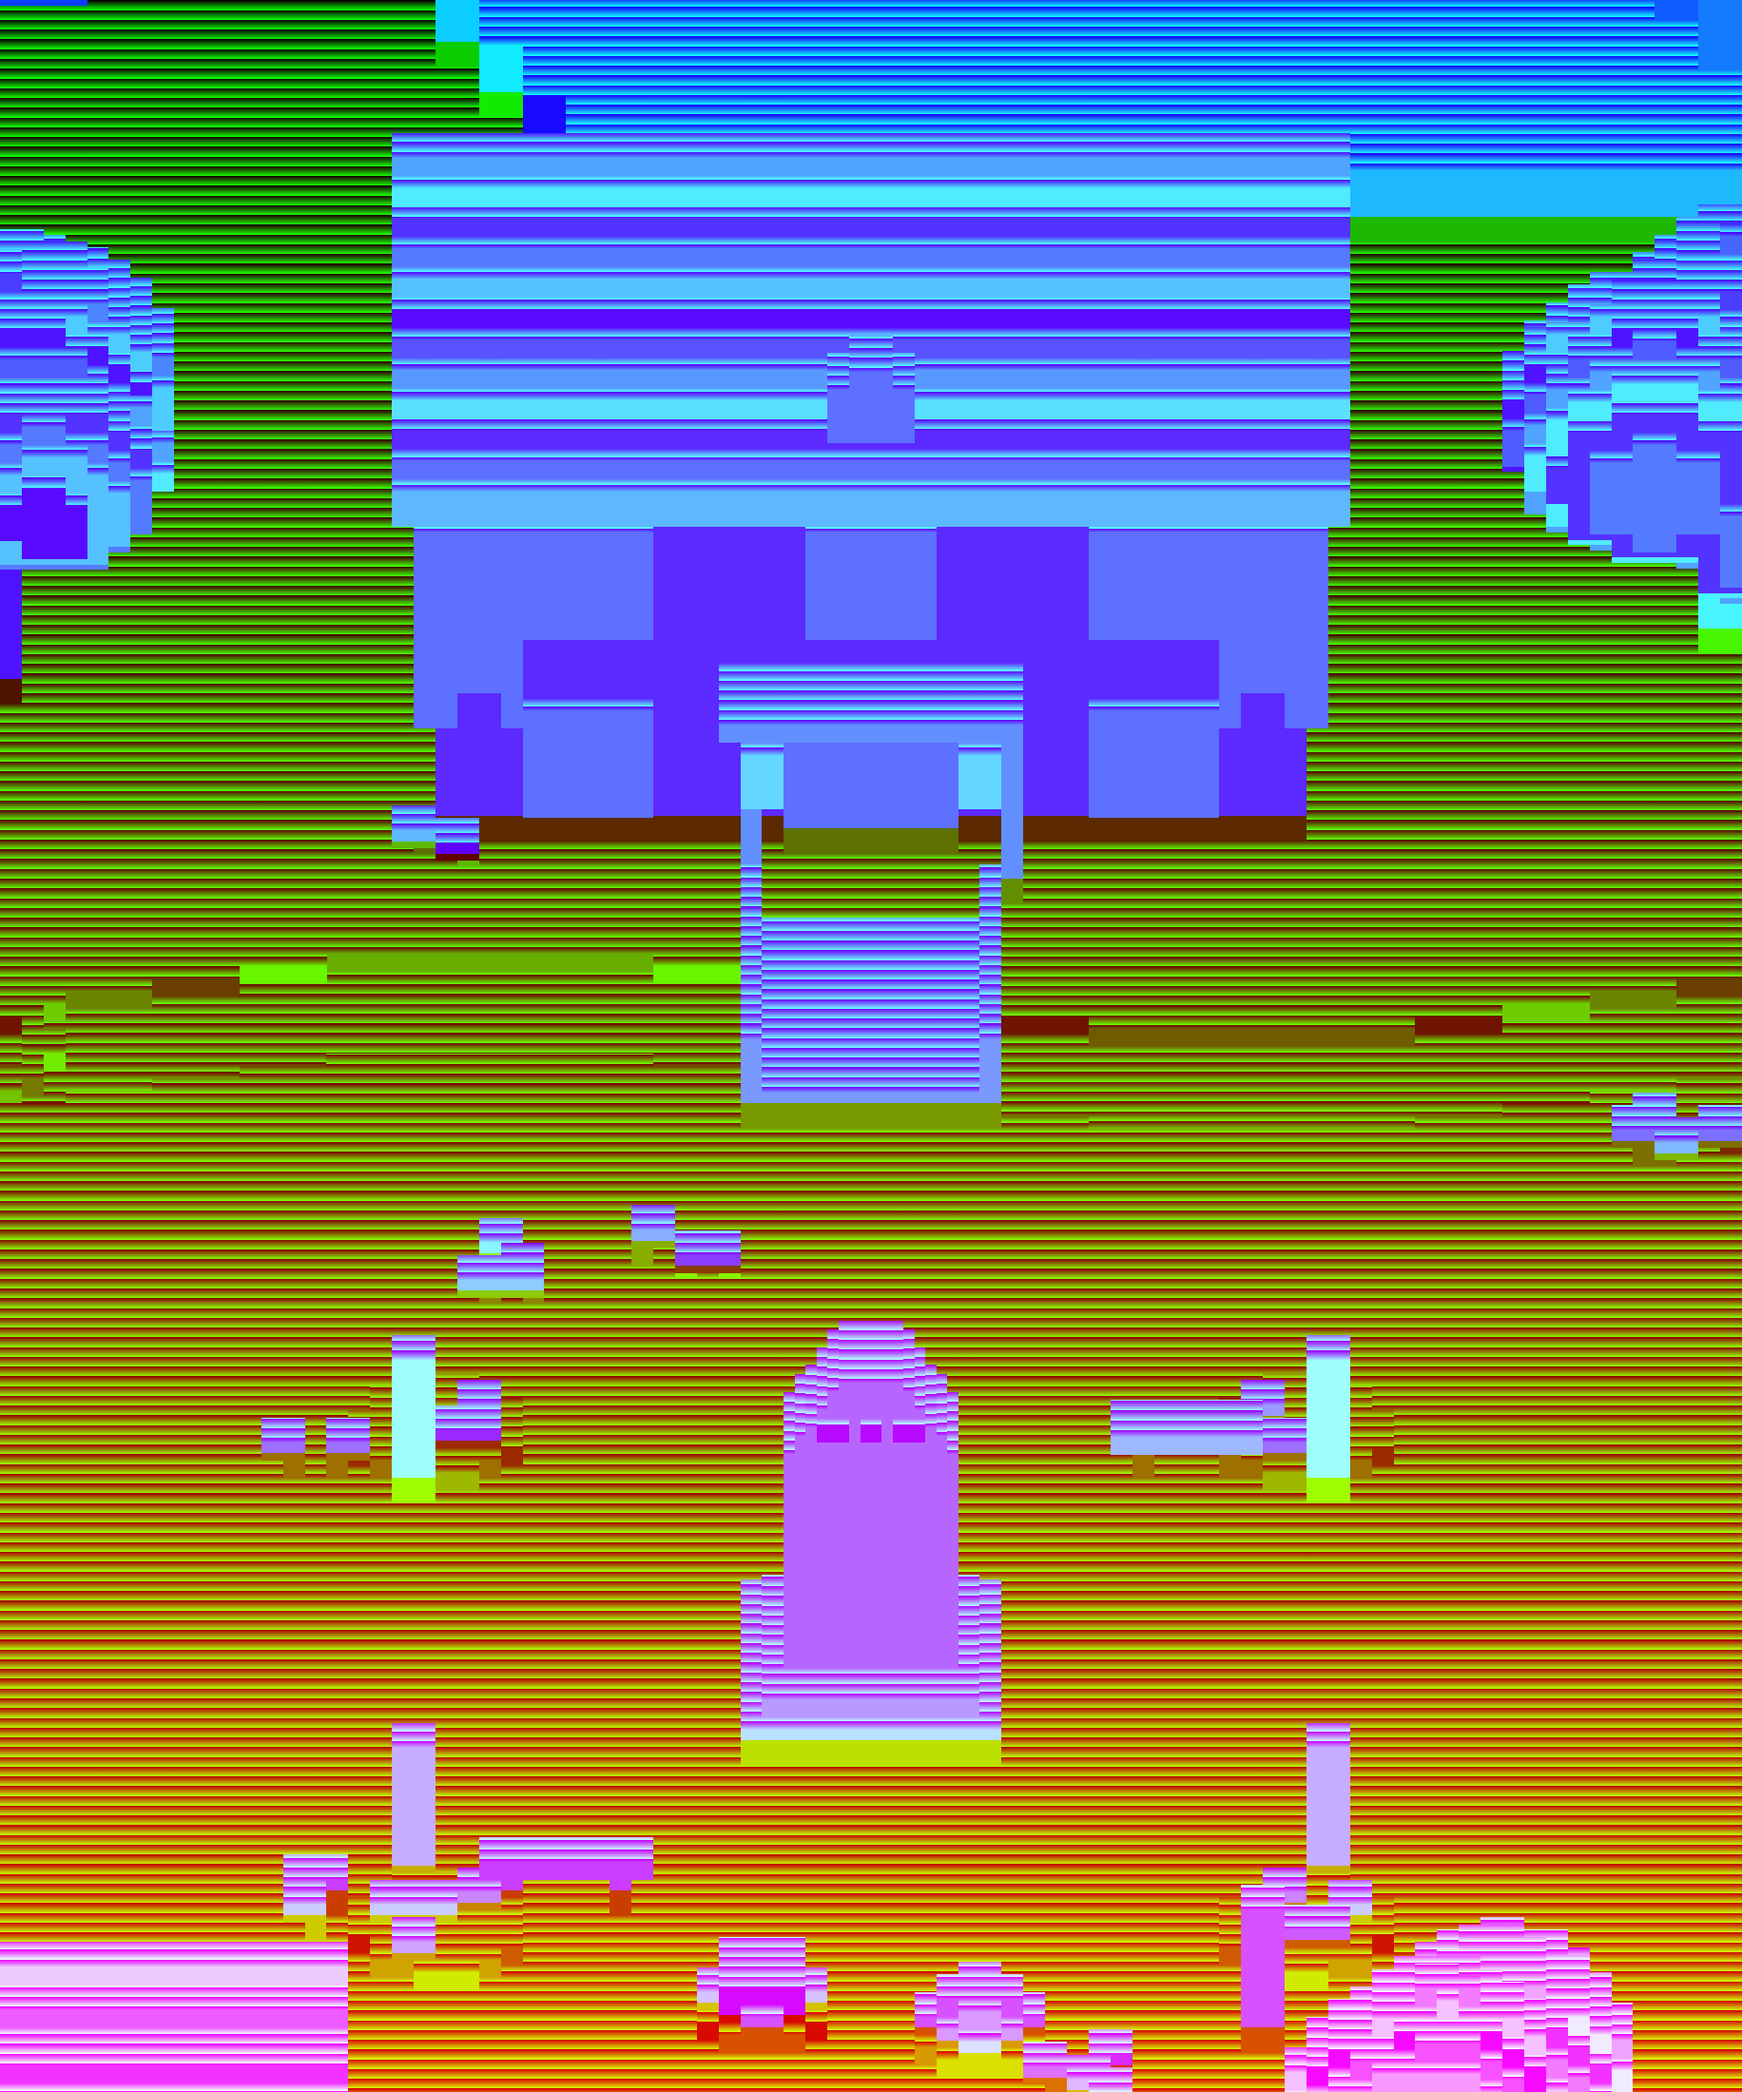
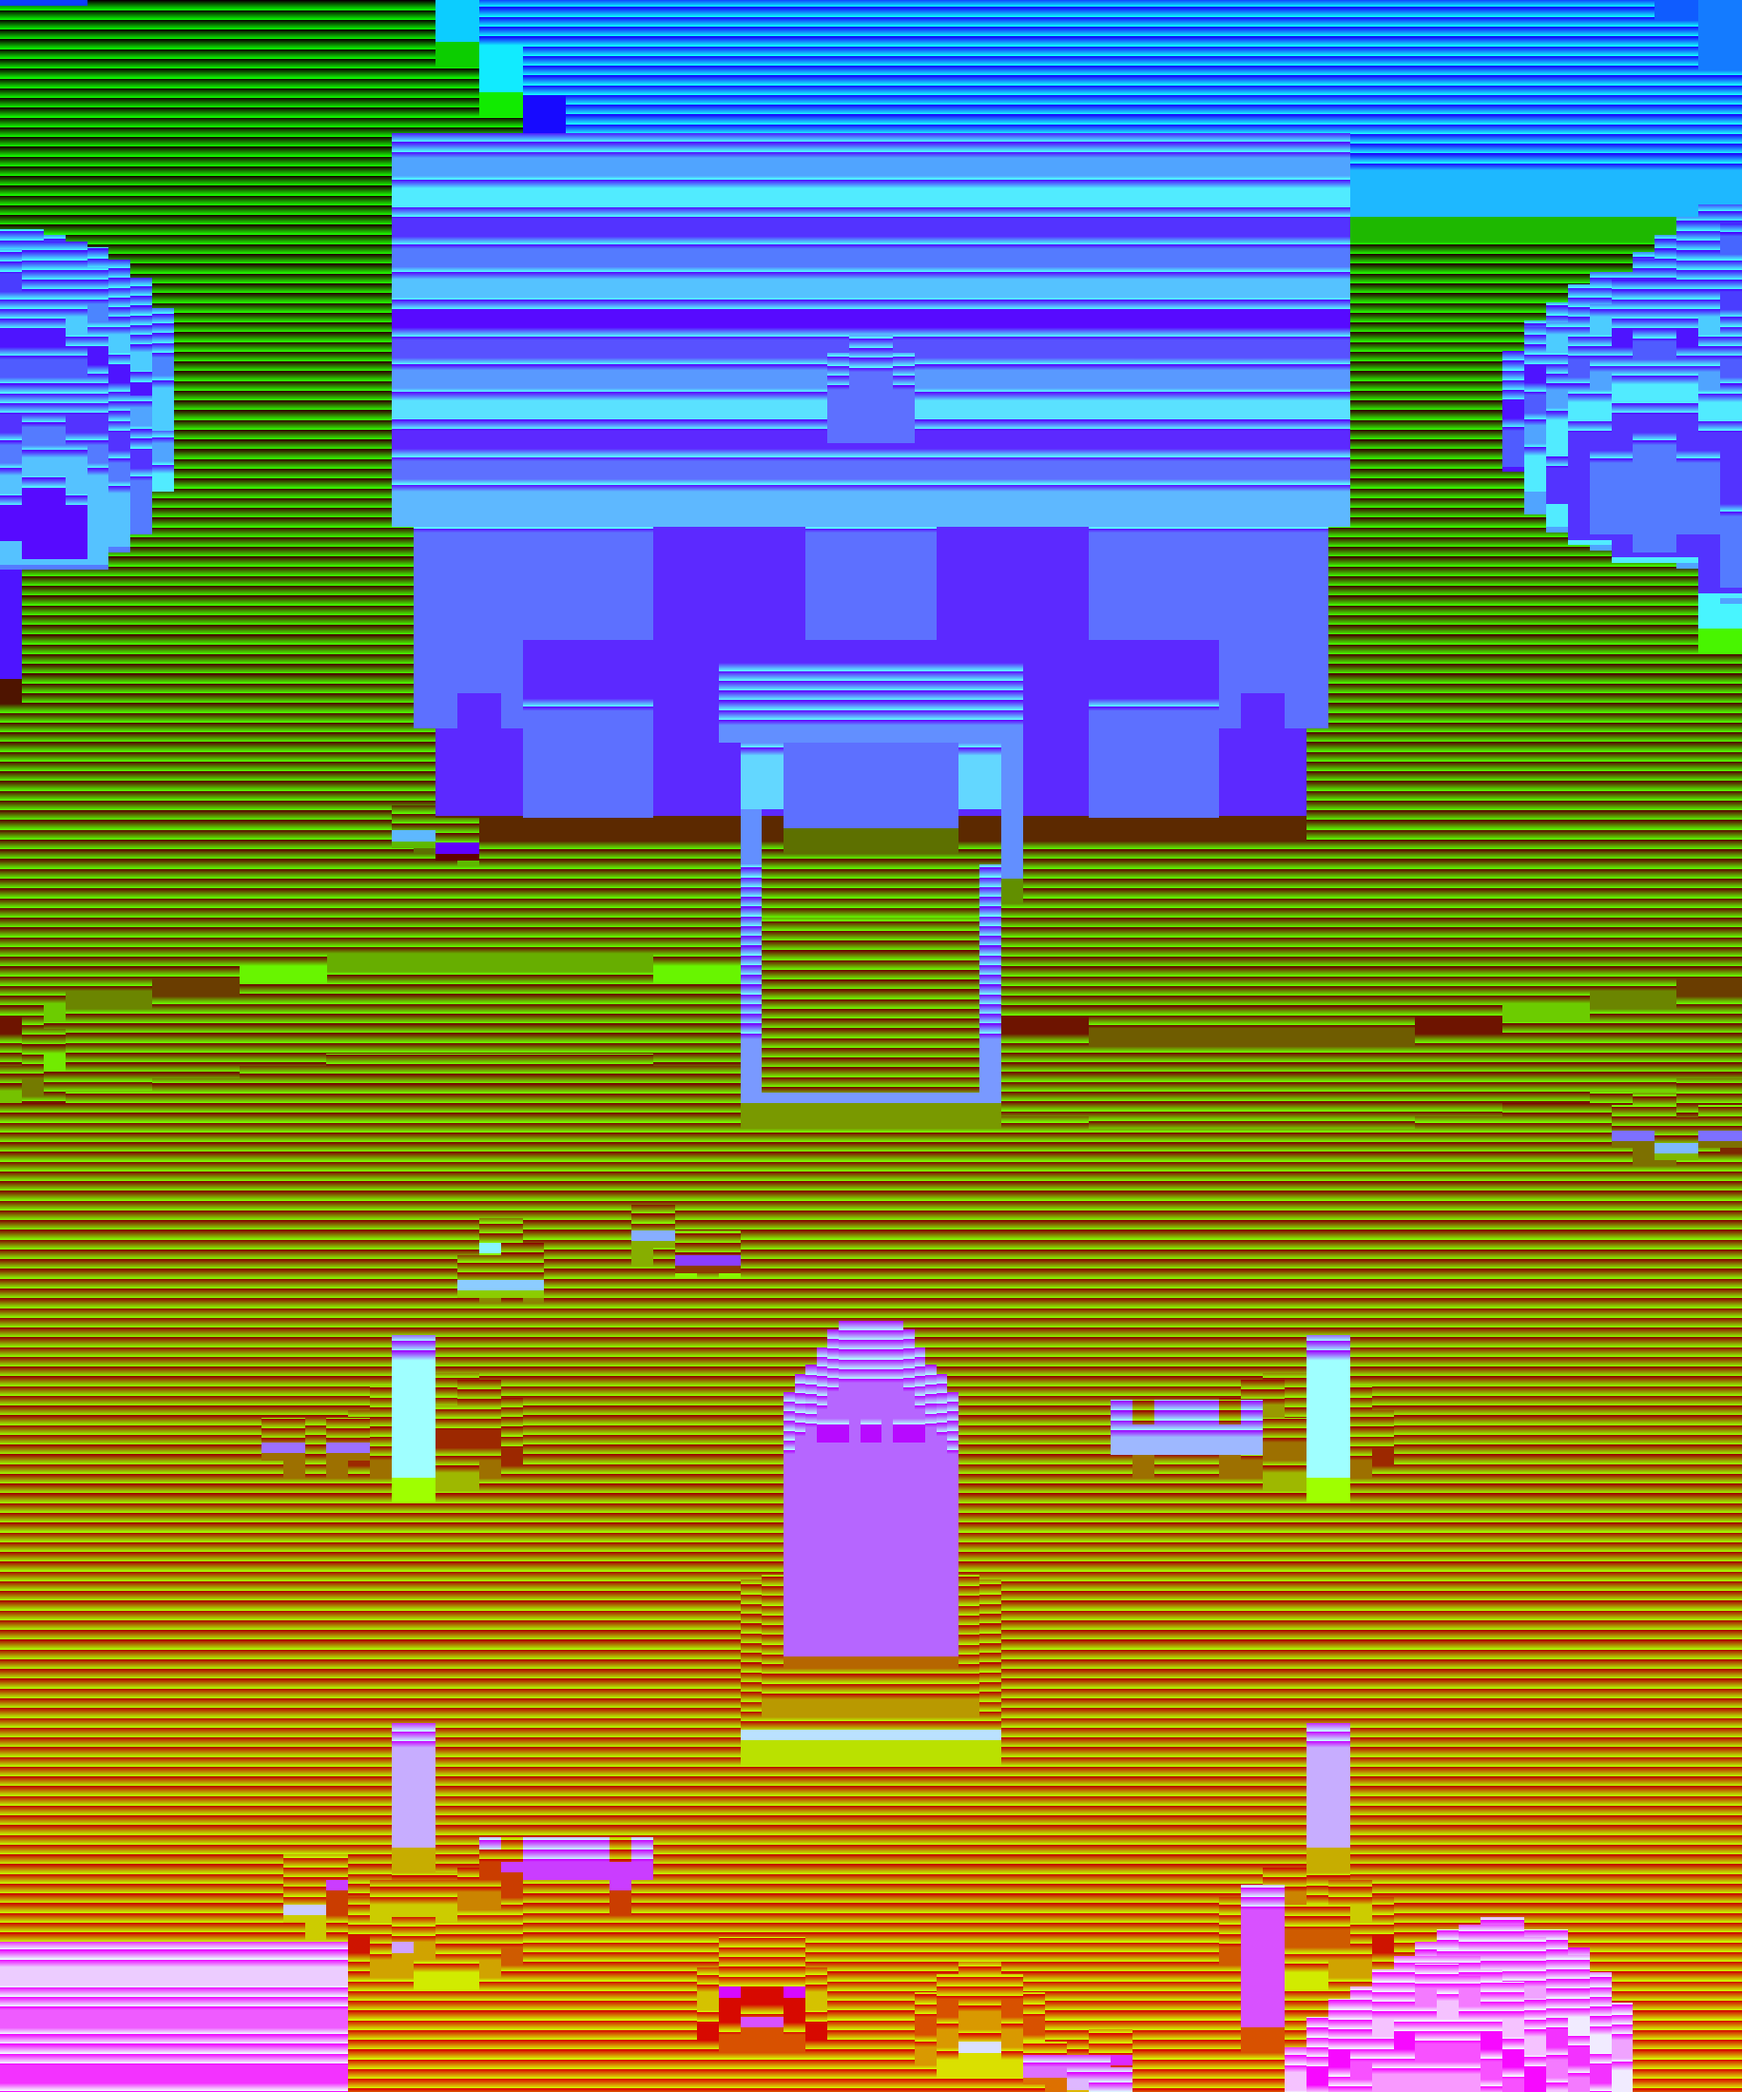
Walkable village: your Evochi stands on the bridge, not in it
The walk grid now carries the height you stand at (the bridge's deck is a unit up) and your Evochi
eases up onto it; the depth's "stands up" flag is measured from what you walk on under each pixel,
so the deck no longer covers a character standing on it (the rails still do when they're in front).

Claude-Session: https://claude.ai/code/session_01HANmFDddYbzo6K9KzGZmoK

diff --git a/flutter/lib/features/village/village_walk.dart b/flutter/lib/features/village/village_walk.dart
@@ -73,10 +73,13 @@ class WalkLayout {
         },
         sun = [for (final v in j['sun'] as List) (v as num).toDouble()] {
     final rowsData = ((j['grid'] as Map)['walk'] as List).cast<String>();
+    final hData = (((j['grid'] as Map)['height'] as List?) ?? const []).cast<String>();
     walk = Uint8List(cols * rows);
+    height = Uint8List(cols * rows);
     for (var r = 0; r < rows; r++) {
       for (var c = 0; c < cols; c++) {
         walk[r * cols + c] = rowsData[r].codeUnitAt(c) == 49 ? 1 : 0;
+        if (r < hData.length) height[r * cols + c] = hData[r].codeUnitAt(c) - 48;
       }
     }
   }
@@ -84,6 +87,7 @@ class WalkLayout {
   final double w, h, ppu, cx, cz, sinP, cosP, z0, z1, gx0, gz0, cell;
   final int cols, rows;
   late final Uint8List walk;
+  late final Uint8List height; // what you stand on, in quarter units (the bridge's deck is a unit up)
   final List<(String, double, double, String)> npcs; // id, x, z, place
   final Offset spawn;
   final Map<String, Offset> spots;
@@ -103,6 +107,13 @@ class WalkLayout {
   bool _ok(int c, int r) => c >= 0 && r >= 0 && c < cols && r < rows && walk[r * cols + c] == 1;
   Offset _centre(int c, int r) => Offset(gx0 + (c + 0.5) * cell, gz0 + (r + 0.5) * cell);
   bool walkable(double x, double z) => _ok(_c(x), _r(z));
+
+  /// The height of what you walk on at (x, z).
+  double heightAt(double x, double z) {
+    final c = _c(x), r = _r(z);
+    if (c < 0 || r < 0 || c >= cols || r >= rows) return 0;
+    return height[r * cols + c] * 0.25;
+  }
 
   /// The walkable cell nearest (c, r), within [reach] cells.
   (int, int)? _nearest(int c, int r, {int reach = 16}) {
@@ -252,6 +263,7 @@ class _Heap {
 class VillageWalker {
   VillageWalker(this.x, this.z);
   double x, z;
+  double y = 0; // how high it stands (eased, so stepping up onto the bridge isn't a jump)
   int dir = 4; // S SE E NE N NW W SW
   bool moving = false;
   double phase = 0;
@@ -348,7 +360,8 @@ class VillageWalkScreenState extends State<VillageWalkScreen> with SingleTickerP
       }
       me
         ..x = l.spawn.dx
-        ..z = l.spawn.dy;
+        ..z = l.spawn.dy
+        ..y = l.heightAt(l.spawn.dx, l.spawn.dy);
     });
     _ticker = createTicker(_tick)..start();
   }
@@ -393,6 +406,7 @@ class VillageWalkScreenState extends State<VillageWalkScreen> with SingleTickerP
       me.moving = me.path.isNotEmpty;
       if (!me.moving) _arrived();
     }
+    me.y += (l.heightAt(me.x, me.z) - me.y) * math.min(1.0, dt * 14);
     if (me.wait > 0) {
       me.wait -= dt;
       if (me.wait <= 0) _openTalk();
@@ -408,7 +422,7 @@ class VillageWalkScreenState extends State<VillageWalkScreen> with SingleTickerP
     final l = lay!;
     if (_view.isEmpty) return;
     final k = _k;
-    final p = l.toImage(me.x, me.z);
+    final p = l.toImage(me.x, me.z, me.y);
     // your Evochi a little below the middle, as in the Wilds
     var want = Offset(p.dx, p.dy - 0.08 * _view.height / k);
     final hw = _view.width / 2 / k, hh = _view.height / 2 / k;
@@ -614,7 +628,7 @@ class _WalkPainter extends CustomPainter {
     final mk = s._mark;
     if (mk != null && s._t - mk.$3 < 0.7) {
       final a = (s._t - mk.$3) / 0.7;
-      final c = scr(l.toImage(mk.$1, mk.$2));
+      final c = scr(l.toImage(mk.$1, mk.$2, l.heightAt(mk.$1, mk.$2)));
       final rw = (0.9 + 0.8 * a) * l.ppu * k;
       for (final (grow, op) in const [(0.0, 0.9), (0.35, 0.45)]) {
         canvas.drawOval(Rect.fromCenter(center: c, width: rw * 2 * (1 + grow), height: rw * 2 * (1 + grow) * l.sinP),
@@ -645,7 +659,7 @@ class _WalkPainter extends CustomPainter {
       }));
     }
     items.add((s.me.z, () {
-      final rect = _pet(canvas, scr(l.toImage(s.me.x, s.me.z)), upk, l);
+      final rect = _pet(canvas, scr(l.toImage(s.me.x, s.me.z, s.me.y)), upk, l);
       if (si < s._shaders.length) _scene(canvas, s._shaders[si++], whole, rect.inflate(2), l.depthQ(s.me.z + _frontBias));
     }));
     items.sort((a, b) => a.$1.compareTo(b.$1));

diff --git a/tools/art/village_walk_slice.py b/tools/art/village_walk_slice.py
@@ -73,6 +73,8 @@ def walk_grid(vs):
     for (nx, nz) in NPCS.values():
         block |= (X - nx) ** 2 + (Z - nz) ** 2 < 1.4 ** 2
     solid = block | wet | (top < -5)
+    # what you walk on: the ground at 0, the bridge's deck a unit up (the top of the highest low voxel)
+    surface = np.clip(np.where(top < -5, 0.0, top + 0.5 / 2), 0.0, 2.0)
     # your Evochi's middle keeps PET_R clear of anything solid
     dist = ndimage.distance_transform_edt(~solid) * CELL
     walk = dist > PET_R
@@ -80,19 +82,29 @@ def walk_grid(vs):
     lab, _ = ndimage.label(walk)
     sx, sz = int((SPAWN[0] - x0) / CELL), int((SPAWN[1] - z0) / CELL)
     walk &= lab == lab[sx, sz]
-    return walk, solid
+    return walk, solid, surface
 
 
-def pack_depth(npy, out_png):
+def pack_depth(npy, out_png, surface=None):
     d = np.load(npy)
     z, a, y = d[..., 0], d[..., 1], d[..., 2]
+    # the height of what you walk on under each pixel (the deck of the bridge is a unit up)
+    base = np.zeros_like(y)
+    if surface is not None:
+        (cx, cz), width, (w, h) = V.VIEWS['slice']
+        x = cx + (np.arange(w) + 0.5 - w / 2) / (w / width)
+        x0, x1, gz0, gz1 = AREA
+        ci = np.floor((x - x0) / CELL).astype(int)
+        rj = np.floor((z - gz0) / CELL).astype(int)
+        ok = (ci[None, :] >= 0) & (ci[None, :] < surface.shape[0]) & (rj >= 0) & (rj < surface.shape[1])
+        base = np.where(ok, surface[np.clip(ci, 0, surface.shape[0] - 1)[None, :].repeat(h, 0), np.clip(rj, 0, surface.shape[1] - 1)], 0.0)
     z0, z1 = V.DEPTH_RANGE
     q = np.clip((z - z0) / (z1 - z0), 0, 1)
     q = np.where(a > 0.5, q, 0.0)
     v = np.round(q * 65535).astype(np.uint32)
-    # B: 255 where the surface stands up off the ground (walls, trunks, posts, rails, bushes); only those
-    # are drawn over a character, so its feet are never cut by the path in front of them
-    tall = ((y > 0.7) & (a > 0.5)).astype(np.uint8) * 255
+    # B: 255 where the surface stands up off what you walk on there (walls, trunks, posts, rails, bushes);
+    # only those are drawn over a character, so its feet are never cut by the path or the bridge's deck
+    tall = ((y > base + 0.7) & (a > 0.5)).astype(np.uint8) * 255
     rgb = np.dstack([(v >> 8).astype(np.uint8), (v & 255).astype(np.uint8), tall])
     Image.fromarray(rgb, 'RGB').save(out_png, optimize=True)
 
@@ -101,10 +113,10 @@ def main():
     src = sys.argv[1]
     (cx, cz), width, (w, h) = V.VIEWS['slice']
     vs = V.scene_village_walk('day_dim')
-    walk, solid = walk_grid(vs)
+    walk, solid, surface = walk_grid(vs)
     art = os.path.join(FLUTTER, 'assets', 'art', 'village')
     Image.open(os.path.join(src, 'village_walk_slice.png')).convert('RGB').save(os.path.join(art, 'walk_slice.webp'), quality=90, method=6)
-    pack_depth(os.path.join(src, 'village_walk_slice_depth.npy'), os.path.join(art, 'walk_slice_depth.png'))
+    pack_depth(os.path.join(src, 'village_walk_slice_depth.npy'), os.path.join(art, 'walk_slice_depth.png'), surface)
     x0, x1, z0, z1 = AREA
     rows = [''.join('1' if walk[i, j] else '0' for i in range(walk.shape[0])) for j in range(walk.shape[1])]
     lay = {
@@ -112,7 +124,9 @@ def main():
         'depth': 'assets/art/village/walk_slice_depth.png',
         'w': w, 'h': h, 'ppu': w / width, 'centre': [cx, cz], 'pitch': V.PITCH,
         'depthRange': list(V.DEPTH_RANGE),
-        'grid': {'x0': x0, 'z0': z0, 'cell': CELL, 'cols': walk.shape[0], 'rows': walk.shape[1], 'walk': rows},
+        'grid': {'x0': x0, 'z0': z0, 'cell': CELL, 'cols': walk.shape[0], 'rows': walk.shape[1], 'walk': rows,
+                 # the height you stand at, in quarter units ('0'-'8')
+                 'height': [''.join(str(int(round(min(surface[i, j], 2.0) * 4))) for i in range(walk.shape[0])) for j in range(walk.shape[1])]},
         'npcs': [{'id': k, 'x': v[0], 'z': v[1], 'place': 'lodge'} for k, v in NPCS.items()],
         'spawn': list(SPAWN),
         'spots': {'guild': [0.0, -29.0], 'waystone': [0.0, 4.8], 'bridge': [0.0, -26.0]},
